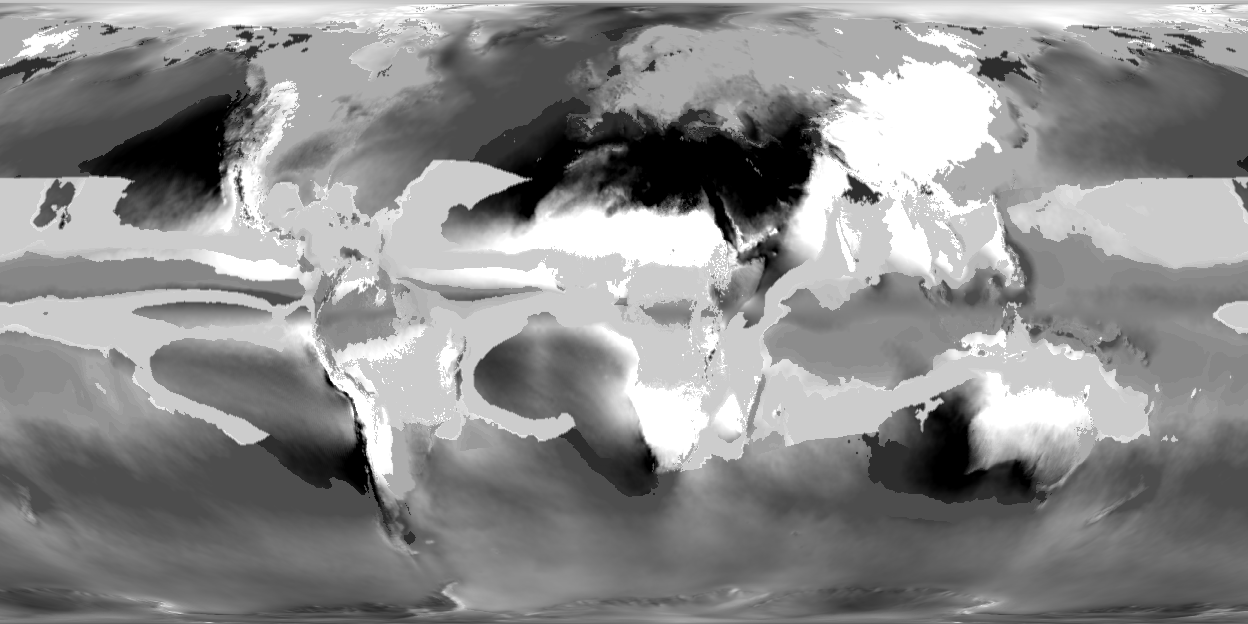
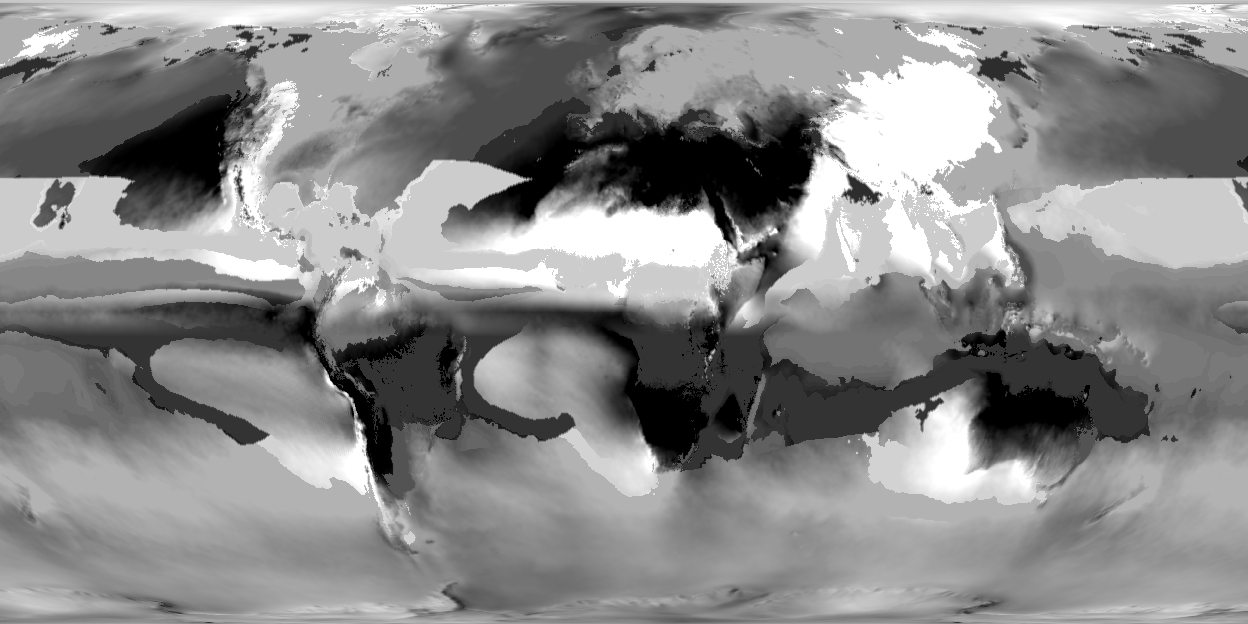
fix: rainVar

diff --git a/src/test/java/net/yazloysasha/tfcrealworld/test/MapOptionsTest.java b/src/test/java/net/yazloysasha/tfcrealworld/test/MapOptionsTest.java
@@ -41,8 +41,11 @@ public class MapOptionsTest implements TestSetup {
   private static final int SCAN_RADIUS = 96;
 
   private static final double RIVER_TOLERANCE_CELLS = 1.5;
-  /** Most the variance may change from one region point to the next. */
-  private static final float EQUATOR_VARIANCE_STEP = 0.15f;
+  /** Region points either side of the equator its steps are compared with. */
+  private static final int EQUATOR_REACH = 8;
+
+  /** How much more the variance may step across the equator than near it. */
+  private static final double EQUATOR_STEP_RATIO = 1.5;
   private static final double DRY_DISTANCE_CELLS = 3.0;
 
   private record Place(String name, double latitude, double longitude) {}
@@ -291,12 +294,14 @@ public class MapOptionsTest implements TestSetup {
   }
 
   /**
-   * TFC's rainfall variance changes sign at the equator. It must fade through
-   * zero there, not turn at once: a turn splits rain, groundwater and grass
+   * TFC's rainfall variance is the calendar's in both hemispheres, so the map
+   * holds it with no turn at the equator: it crosses there as the real
+   * climate does, and a chunk between two region points blends them without
+   * passing outside them. A turn would split rain, groundwater and grass
    * colour along the equator in a straight line.
    */
   @Test
-  public void seasonsFadeThroughTheEquator() {
+  public void seasonsAreContinuousAcrossTheEquator() {
     final RegionGenerator generator = generator(
       true,
       true,
@@ -311,7 +316,22 @@ public class MapOptionsTest implements TestSetup {
       settings.rockLayerSettings(),
       Seed.of(SEED)
     );
+    double equatorSteps = 0;
+    double nearbySteps = 0;
+    int nearbyCount = 0;
     for (int gridX = -312; gridX < 312; gridX++) {
+      for (int gridZ = -EQUATOR_REACH; gridZ < EQUATOR_REACH; gridZ++) {
+        final float step = Math.abs(
+          generator.getOrCreateRegionPoint(gridX, gridZ).rainfallVariance -
+            generator.getOrCreateRegionPoint(gridX, gridZ + 1).rainfallVariance
+        );
+        if (gridZ == -1) {
+          equatorSteps += step;
+        } else {
+          nearbySteps += step;
+          nearbyCount++;
+        }
+      }
       final float north = generator.getOrCreateRegionPoint(
         gridX,
         -1
@@ -320,19 +340,48 @@ public class MapOptionsTest implements TestSetup {
         gridX,
         0
       ).rainfallVariance;
-      assertTrue(
-        Math.abs(north - south) <= EQUATOR_VARIANCE_STEP,
-        "variance turns from " + north + " to " + south + " at " + gridX
+      final float northEast = generator.getOrCreateRegionPoint(
+        gridX + 1,
+        -1
+      ).rainfallVariance;
+      final float southEast = generator.getOrCreateRegionPoint(
+        gridX + 1,
+        0
+      ).rainfallVariance;
+      final float least = Math.min(
+        Math.min(north, south),
+        Math.min(northEast, southEast)
+      );
+      final float most = Math.max(
+        Math.max(north, south),
+        Math.max(northEast, southEast)
       );
       final ChunkPos pos = new ChunkPos(gridX * 8, -1);
       final float variance = chunks
         .generate(new ChunkData(chunks, pos))
         .getRainVariance(pos.getMinBlockX(), pos.getMinBlockZ());
       assertTrue(
-        Math.abs(variance) <= EQUATOR_VARIANCE_STEP,
-        "seasons at the equator are " + variance + " at chunk " + pos
+        variance >= least - 0.01f && variance <= most + 0.01f,
+        "chunk " +
+          pos +
+          " reads " +
+          variance +
+          " outside " +
+          least +
+          " to " +
+          most
       );
     }
+    final double equatorStep = equatorSteps / 624;
+    final double nearbyStep = nearbySteps / nearbyCount;
+    assertTrue(
+      equatorStep <= EQUATOR_STEP_RATIO * nearbyStep,
+      "variance steps " +
+        equatorStep +
+        " across the equator, " +
+        nearbyStep +
+        " near it"
+    );
   }
 
   private static RegionGenerator generator(

diff --git a/src/main/java/net/yazloysasha/tfcrealworld/world/noise/png/PNGRainVarianceNoise.java b/src/main/java/net/yazloysasha/tfcrealworld/world/noise/png/PNGRainVarianceNoise.java
@@ -1,22 +1,13 @@
 package net.yazloysasha.tfcrealworld.world.noise.png;
 
-import net.dries007.tfc.world.region.Units;
-import net.yazloysasha.tfcrealworld.util.projection.ProjectionManager;
-
 /**
- * {@code rain_variance.png}: rainfall variance of the summer half of the
- * year, black = -1 (wet winter, dry summer), white = 1 (wet summer, dry
- * winter), mid gray = even rain. The same on both sides of the equator, so
- * the map has no jump there; TFC's variance follows the calendar, and takes
- * the sign of the hemisphere the map is read in. Near the equator that sign
- * fades through zero, as rain there comes evenly round the year: a sign
- * turned at the equator itself splits rain, groundwater and grass colour
- * along it.
+ * {@code rain_variance.png}: TFC's calendar rainfall variance, black = -1
+ * (wet January, dry July), white = 1 (dry January, wet July), mid gray = even
+ * rain. Read as it is in both hemispheres: on the real Earth it turns from
+ * one sign to the other where the tropical rain belt lies on average, a
+ * winding line near the equator, and the map keeps that line.
  */
 public class PNGRainVarianceNoise extends BaseClimatePNGNoise {
-
-  /** Latitude, either side of the equator, over which the sign fades. */
-  private static final double EQUATORIAL_BAND_DEGREES = 10.0;
 
   public PNGRainVarianceNoise(int horizontalScale, int verticalScale) {
     super(
@@ -32,21 +23,8 @@ public class PNGRainVarianceNoise extends BaseClimatePNGNoise {
     return -1.0 + (brightness / 255.0) * 2.0;
   }
 
-  /**
-   * The hemisphere of a region point, from its cell centre: 1 north, -1 south,
-   * in between near the equator.
-   */
-  public static double hemisphere(int gridZ) {
-    final double latitude = ProjectionManager.resolveLatitudeFromWorldZ(
-      Units.gridToBlock(gridZ) + Units.GRID_WIDTH_IN_BLOCK / 2
-    );
-    return Math.clamp(latitude / EQUATORIAL_BAND_DEGREES, -1, 1);
-  }
-
-  /**
-   * TFC's calendar variance of a region point from the map's summer variance.
-   */
-  public static float calendarVariance(double summerVariance, int gridZ) {
-    return Math.clamp((float) (hemisphere(gridZ) * summerVariance), -1, 1);
+  /** TFC's calendar variance of a region point from the map's. */
+  public static float calendarVariance(double mapVariance) {
+    return Math.clamp((float) mapVariance, -1, 1);
   }
 }

diff --git a/src/test/java/net/yazloysasha/tfcrealworld/test/drawing/WorldMapsTest.java b/src/test/java/net/yazloysasha/tfcrealworld/test/drawing/WorldMapsTest.java
@@ -53,9 +53,9 @@ import net.minecraft.world.level.biome.Biome;
 import net.yazloysasha.tfcrealworld.config.TFCRealWorldConfig;
 import net.yazloysasha.tfcrealworld.test.TestSetup;
 import net.yazloysasha.tfcrealworld.util.profile.MapProfile;
+import net.yazloysasha.tfcrealworld.util.projection.ProjectionManager;
 import net.yazloysasha.tfcrealworld.world.MapLakeWater;
 import net.yazloysasha.tfcrealworld.world.noise.png.BasePNGNoise;
-import net.yazloysasha.tfcrealworld.world.noise.png.PNGRainVarianceNoise;
 import org.junit.jupiter.api.Test;
 import org.junit.jupiter.api.Timeout;
 import org.junit.jupiter.api.condition.EnabledIfSystemProperty;
@@ -367,7 +367,7 @@ public class WorldMapsTest implements TestSetup {
                   temperature[pixel],
                   rainfall[pixel],
                   data.getRainVariance(x, z),
-                  PNGRainVarianceNoise.hemisphere(Units.blockToGrid(z)) > 0
+                  ProjectionManager.resolveLatitudeFromWorldZ(z) > 0
                 )
               ).getRGB();
         }

diff --git a/src/main/java/net/yazloysasha/tfcrealworld/mixin/world/region/AnnotateClimateMixin.java b/src/main/java/net/yazloysasha/tfcrealworld/mixin/world/region/AnnotateClimateMixin.java
@@ -41,8 +41,7 @@ public class AnnotateClimateMixin {
         500
       );
       point.rainfallVariance = PNGRainVarianceNoise.calendarVariance(
-        generator.rainfallVarianceNoise.noise(x, z),
-        z
+        generator.rainfallVarianceNoise.noise(x, z)
       );
     }
     ci.cancel();
